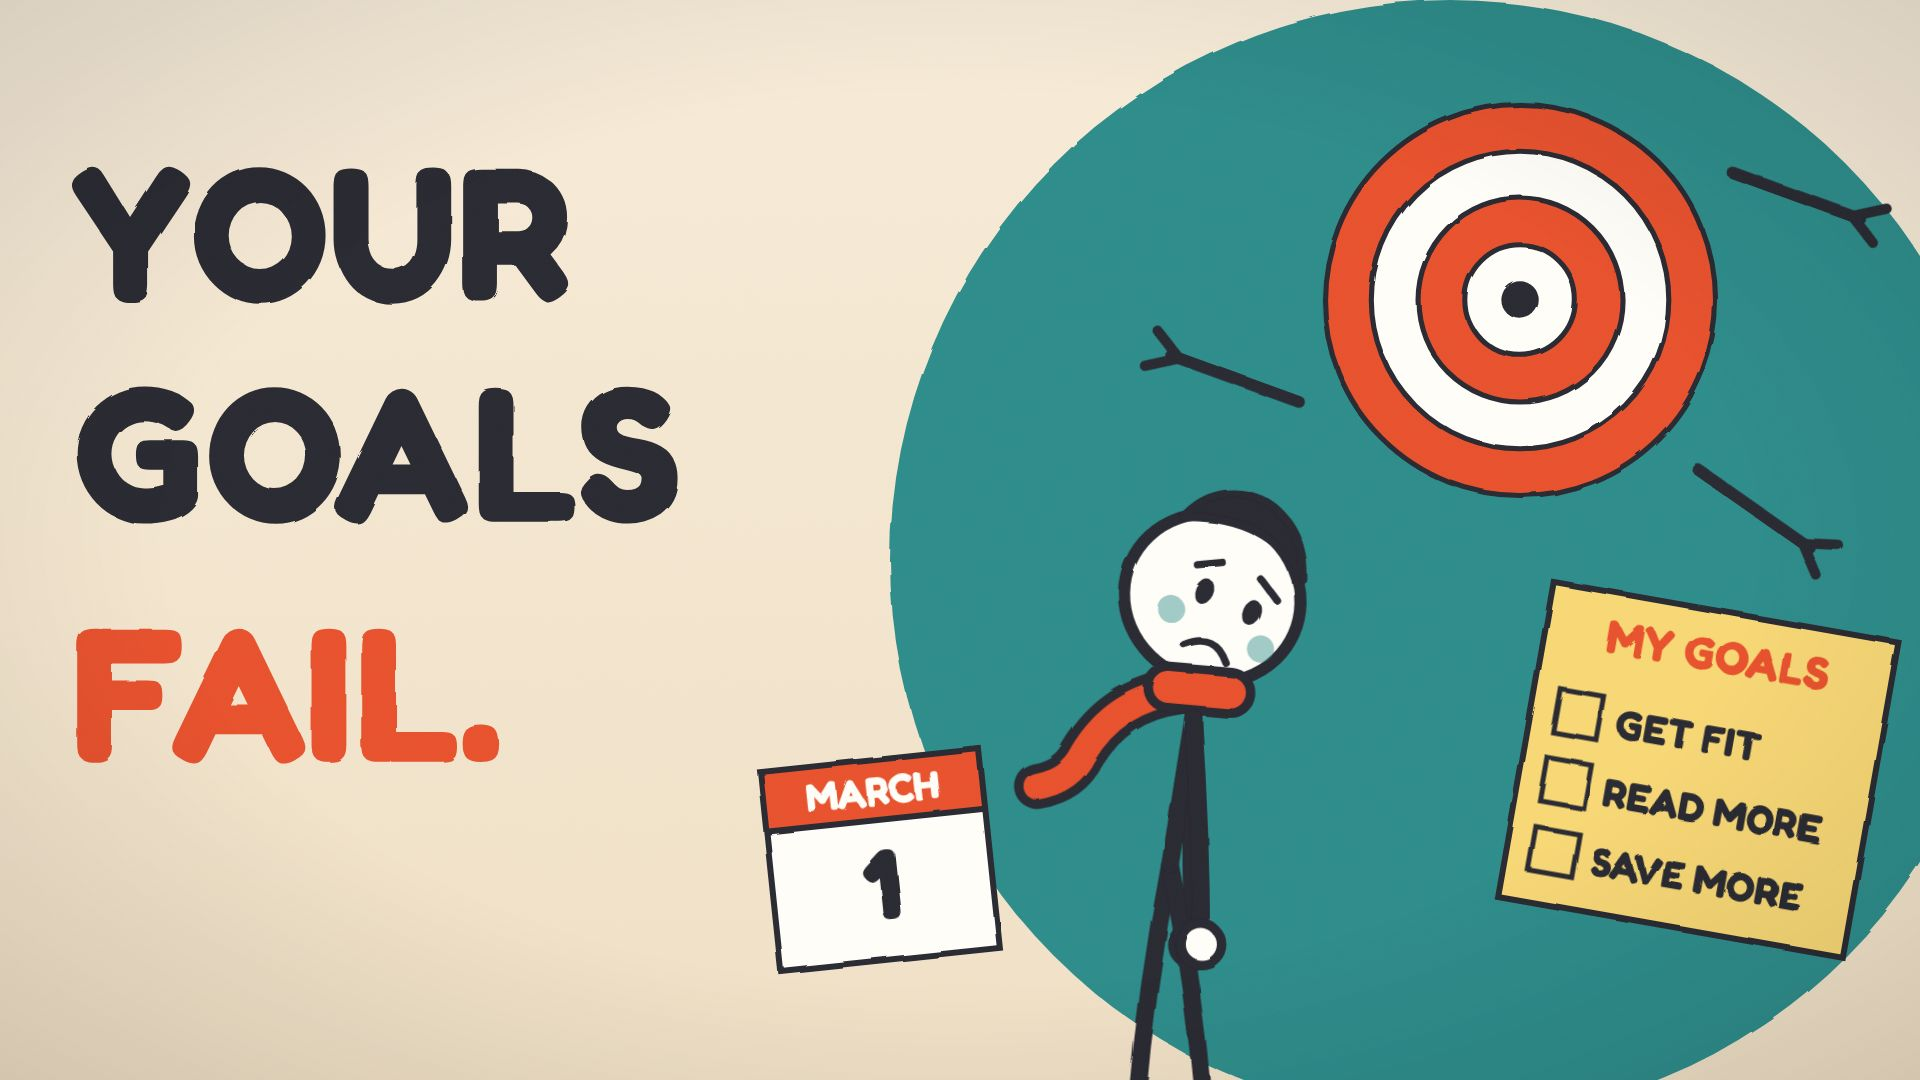
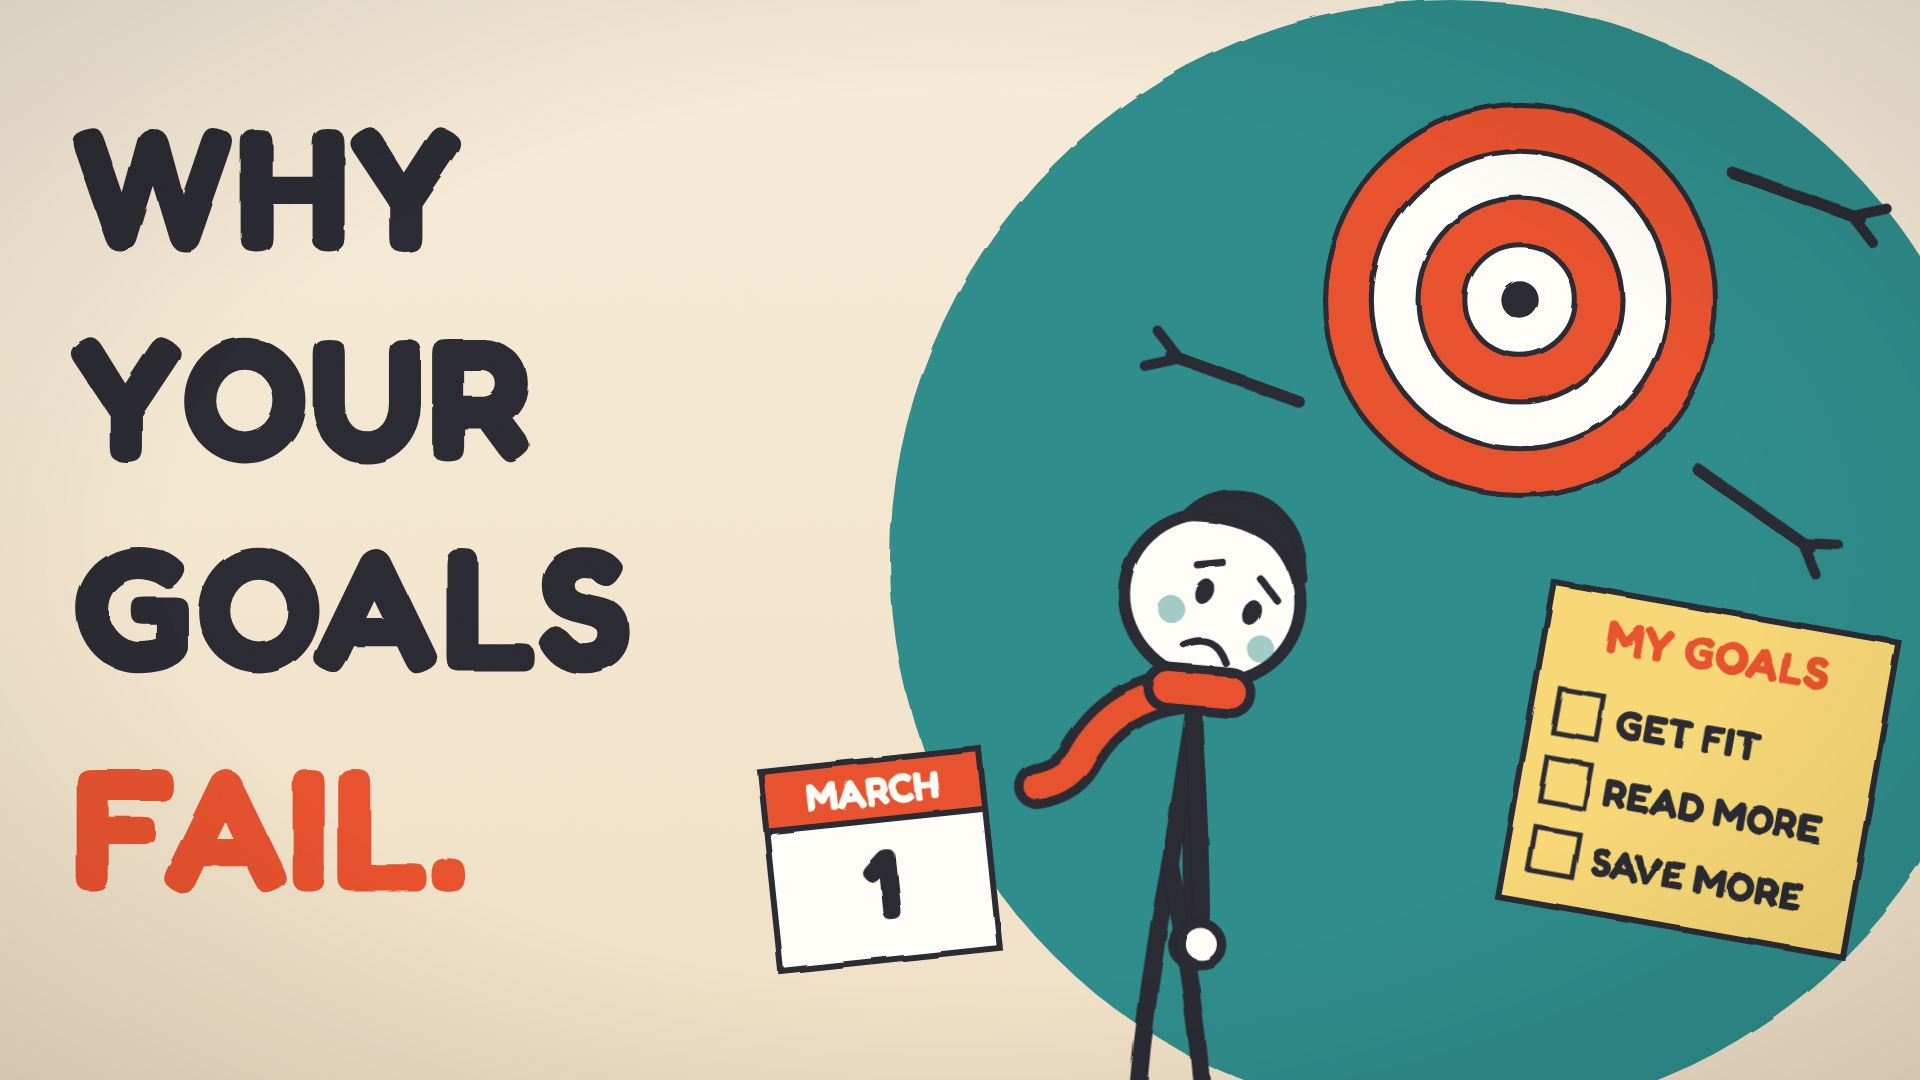
Video 7 thumbnail text: WHY YOUR GOALS FAIL
Claude-Session: https://claude.ai/code/session_01CykSXQo8YSBWY4SXNyJiEp

Changed region(s): [[0.0312, 0.1222, 0.375, 0.825]]

diff --git a/src/videos/v07/Thumbnail.tsx b/src/videos/v07/Thumbnail.tsx
@@ -25,13 +25,16 @@ export const V07Thumb: React.FC = () => (
     }
     front={
       <>
-        <K.Txt x={70} y={300} size={190} weight={700} fill={T.line} anchor="start">
+        <K.Txt x={70} y={250} size={175} weight={700} fill={T.line} anchor="start">
+          WHY
+        </K.Txt>
+        <K.Txt x={70} y={460} size={175} weight={700} fill={T.line} anchor="start">
           YOUR
         </K.Txt>
-        <K.Txt x={70} y={520} size={190} weight={700} fill={T.line} anchor="start">
+        <K.Txt x={70} y={670} size={175} weight={700} fill={T.line} anchor="start">
           GOALS
         </K.Txt>
-        <K.Txt x={70} y={760} size={190} weight={700} fill={T.accent} anchor="start">
+        <K.Txt x={70} y={890} size={175} weight={700} fill={T.accent} anchor="start">
           FAIL.
         </K.Txt>
         {/* target with arrows that missed */}
